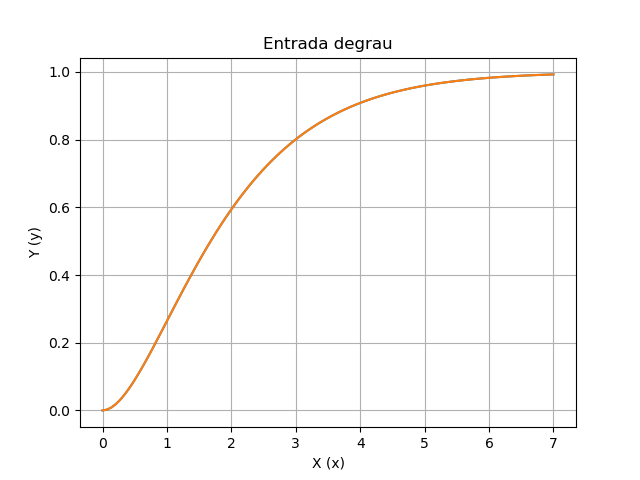
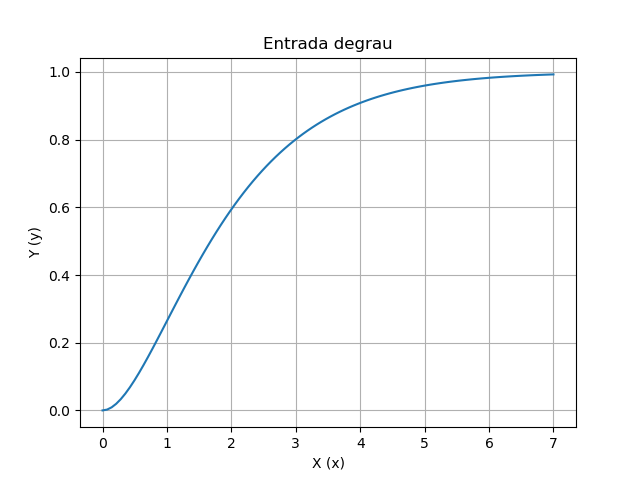
Adicionando mais um programa desenvolvido em Python para exibir dados coletados em prática de laboratório de fenômenos de transporte

diff --git a/nicole.py b/nicole.py
@@ -1,0 +1,68 @@
+import matplotlib.pyplot as plt
+
+# dados coletados no experimento:
+
+tempo_min = [0, 4, 8, 12, 16, 20]
+temperatura_baixa = [22, 17, 11.5, 6.4, 5.4, 5]
+pressao_baixa = [0.17, 0.145, 0.16, 0.16, 0.17, 0.7]
+temperatura_alta = [22, 25.3, 30.2, 34.2, 37.5, 39.9]
+pressao_alta = [0.625, 0.7, 0.8, 0.87, 0.95, 0.99]
+entalpia_alta = [92.9, 106.8, 127.3, 145.3, 157.9, 168]
+
+# cálculo das variações
+
+aux = 0
+vetor_delta_entalpia_alta = [0, 0, 0, 0, 0, 0]
+
+while(aux < (len(tempo_min) - 1)):
+    aux += 1
+    vetor_delta_entalpia_alta[aux] = entalpia_alta[aux] - entalpia_alta[0]
+
+# delta entalpia alta
+
+plt.ylabel(r'$\Delta$' + 'Qh (kJ/kg)')
+plt.xlabel('Tempo (minutos)')
+plt.title('')
+plt.grid()
+
+plt.plot(tempo_min, vetor_delta_entalpia_alta, '*-')
+plt.savefig('entalpia_x_tempo.png')
+
+# tempo x pressao alta
+
+plt.cla() # clear axis
+plt.clf() # clear figure
+
+plt.ylabel('Tempo (minutos)')
+plt.xlabel('Pressão alta (MPa)')
+plt.title('')
+plt.grid()
+
+plt.plot(pressao_alta, tempo_min, '*-')
+plt.savefig('tempo_x_pressao.png')
+
+# tempo x entalpia alta
+
+plt.cla() # clear axis
+plt.clf() # clear figure
+
+plt.ylabel('Tempo (minutos)')
+plt.xlabel('Entalpia alta (kJ/kg)')
+plt.title('')
+plt.grid()
+
+plt.plot(entalpia_alta, tempo_min, '*-')
+plt.savefig('tempo_x_entalpia_alta.png')
+
+# tempo x temperatura baixa
+
+plt.cla() # clear axis
+plt.clf() # clear figure
+
+plt.ylabel('Tempo (minutos)')
+plt.xlabel('Temperatura baixa (Celsius)')
+plt.title('')
+plt.grid()
+
+plt.plot(temperatura_baixa, tempo_min, '*-')
+plt.savefig('tempo_x_temperatura_baixa.png')

diff --git a/ft.py b/ft.py
@@ -10,7 +10,6 @@ sys = control.tf(num, den)
 T, yout = control.step_response(sys)
 
 fig, ax = plt.subplots()
-ax.plot(T, yout)
 
 ax.set(xlabel='X (x)', ylabel='Y (y)', title='Entrada degrau')
 
